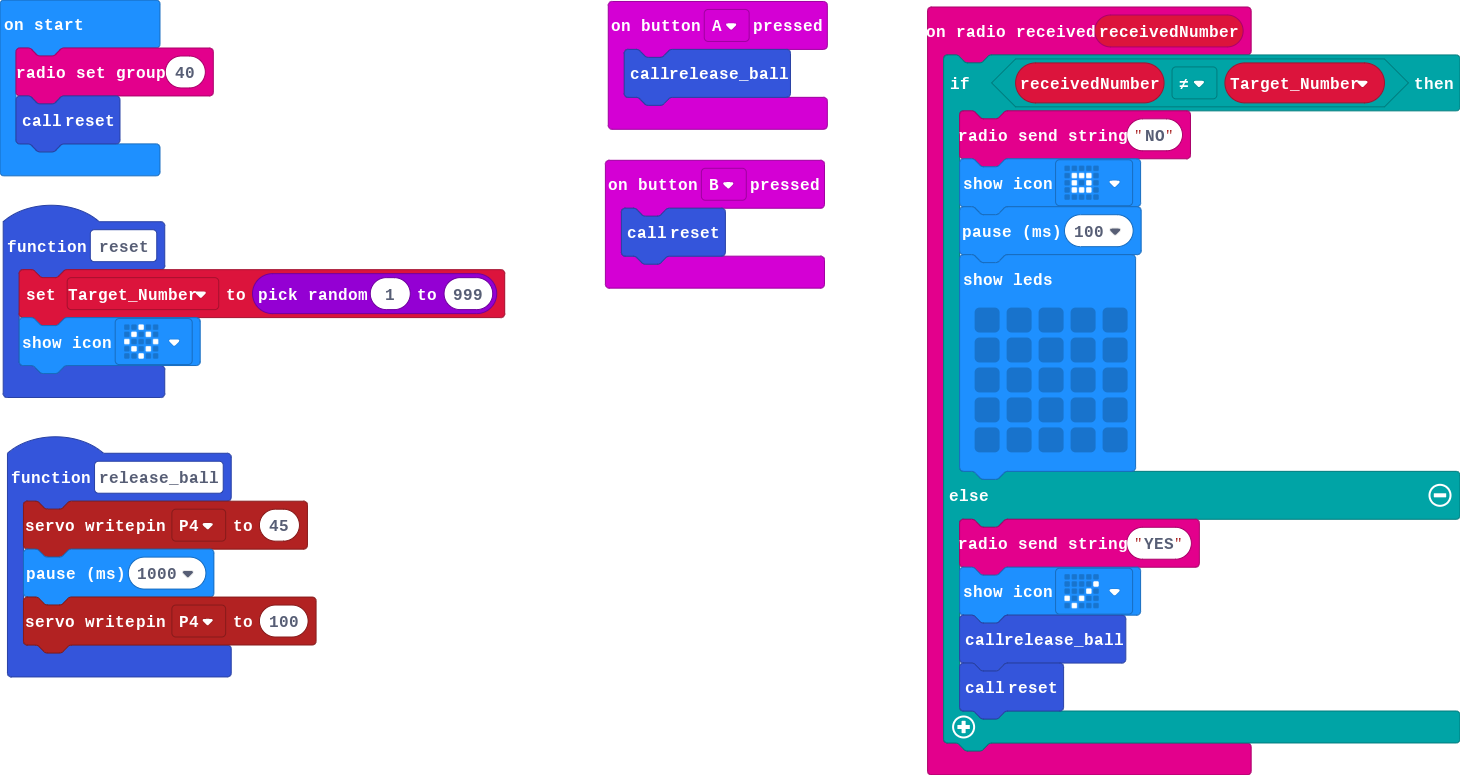
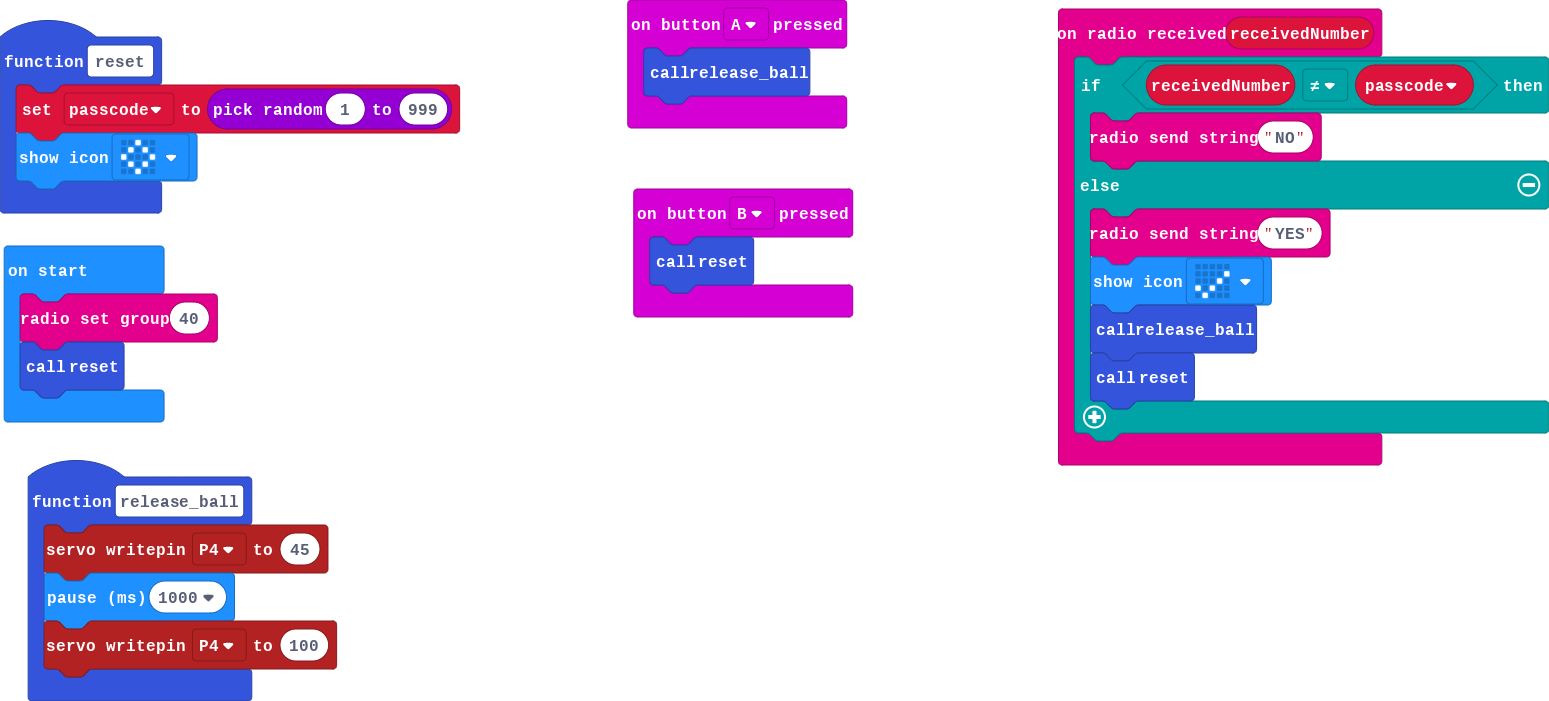
Made the program work and then dispense the ball, no animation

diff --git a/main.ts b/main.ts
@@ -7,17 +7,8 @@ input.onButtonPressed(Button.B, function () {
     reset()
 })
 radio.onReceivedNumber(function (receivedNumber) {
-    if (receivedNumber != Target_Number) {
+    if (receivedNumber != passcode) {
         radio.sendString("NO")
-        basic.showIcon(IconNames.SmallSquare)
-        basic.pause(100)
-        basic.showLeds(`
-            . . . . .
-            . . . . .
-            . . . . .
-            . . . . .
-            . . . . .
-            `)
     } else {
         radio.sendString("YES")
         basic.showIcon(IconNames.Yes)
@@ -26,12 +17,12 @@ radio.onReceivedNumber(function (receivedNumber) {
     }
 })
 function reset () {
-    Target_Number = Math.randomRange(1, 999)
+    passcode = Math.randomRange(1, 999)
     basic.showIcon(IconNames.Diamond)
 }
 input.onButtonPressed(Button.A, function () {
     release_ball()
 })
-let Target_Number = 0
+let passcode = 0
 radio.setGroup(40)
 reset()
